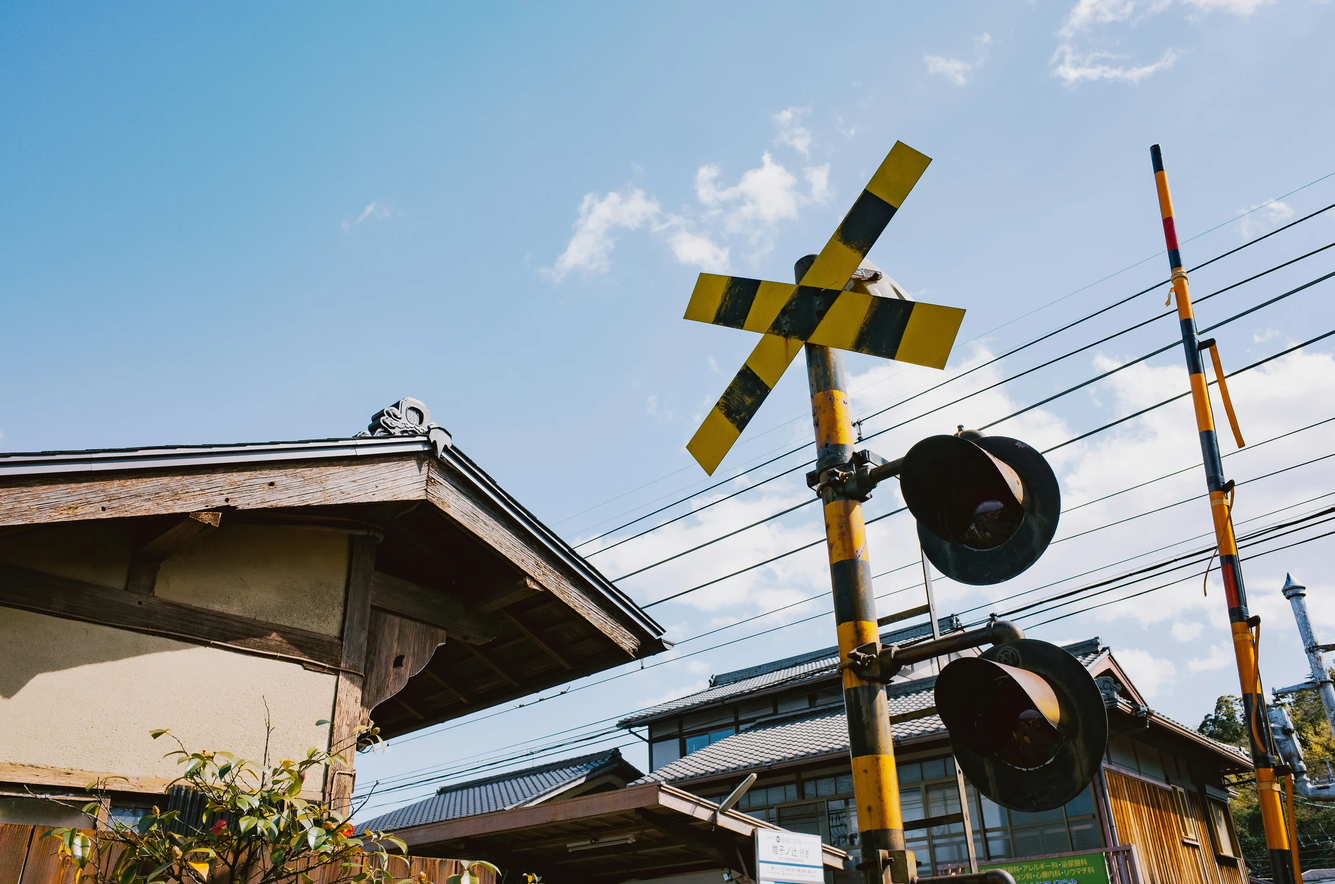
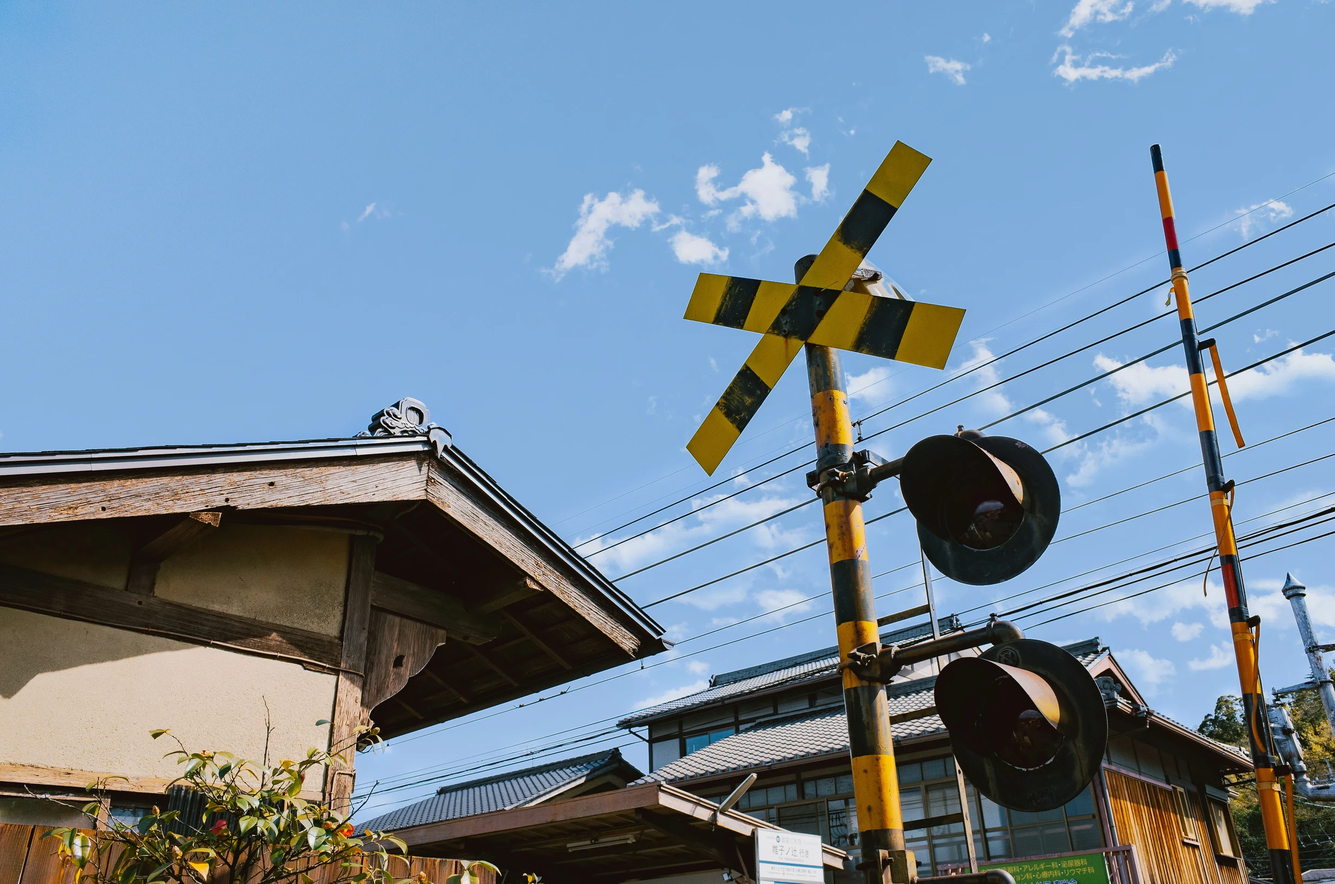
Lab: climb curve-mirror round 2
Claude-Session: https://claude.ai/code/session_01RqENhngNCzDFmJWDZueXGV

diff --git a/tools/depth/bakes/curve-mirror/bake.py b/tools/depth/bakes/curve-mirror/bake.py
@@ -14,7 +14,8 @@
       answers 429); sky: segment.py sky hashi-3840.jpg hashi-3840-sky.png
       --work 3840, at its full width)
       OUT:  public/lab/curve-mirror (env.webp, envd.png, scene.json; photo.webp
-            and aux.png depend only on the photo and are unchanged by the 360)
+            (the sky-graded plate) and aux.png depend only on the photo and
+            are unchanged by the 360)
 
 The mirror stands 2.9 m in front of the lens, high on its pole over the old house
 on the left. Everything it can reflect is gathered into one equirect panorama
@@ -36,6 +37,12 @@ photo's vertical vanishing point):
     also works: turned to the photo's sun, its sun disc taken out; the engine
     draws the sun analytically, at HDR.)
   - the seam is feathered over ~9 degrees inside the photo's coverage.
+  - first, the photo's sky is graded through its matte to a deep summer
+    cobalt by elevation (sky_grade.py: its milky right half and the haze
+    over the roofs taken to the clear sky's colour, clouds kept pale), and
+    the panorama's fitted sky is that same target carried to the zenith, so
+    the sky in the glass meets the sky round the mirror. photo.webp is the
+    graded plate; aux.png is measured on the plate as shot.
 
 Also: a distance panorama (for parallax across the 0.8 m face), SH9 irradiance
 of the panorama (for lighting the paint), and aux.png for the photo: log depth
@@ -50,6 +57,9 @@ import numpy as np
 
 sys.path.insert(0, os.path.join(os.path.dirname(os.path.abspath(__file__)), "..", ".."))
 import kit  # noqa: E402
+
+sys.path.insert(0, os.path.dirname(os.path.abspath(__file__)))
+import sky_grade  # noqa: E402
 
 WORK, OUT = sys.argv[1], sys.argv[2]
 # the world behind the lens: a Poly Haven HDRI (sun-matched) or an 8-bit 360 photo
@@ -96,6 +106,14 @@ Pw = Pc @ Rw.T
 rw = rc @ Rw.T
 rw /= np.linalg.norm(rw, axis=-1, keepdims=True)
 T.mark("load")
+
+# the photo's sky graded to a deep summer cobalt through its matte, by
+# elevation (sky_grade.py); everything downstream (the photo as shipped, its
+# pixels in the panorama, the cloud plane) takes the graded plate, and the
+# panorama's fitted sky is the same target carried to the zenith
+lin0 = lin
+lin = sky_grade.grade_photo(lin, sky, np.degrees(np.arcsin(np.clip(rw[..., 1], -1, 1))))
+T.mark("sky grade")
 
 # the mirror's face centre
 u0, v0 = MIRROR_PX
@@ -355,17 +373,10 @@ wb = (pr / hr) ** 0.15
 env_h *= wb
 print("hdri exposure %.3f wb %s" % (expo, wb.round(3)))
 # the HDRI's own sky (clear, pale November) becomes the photo's summer sky:
-# a fit of the photo's clear-sky colour by elevation and angle to the sun
-sk = (sky > 0.5) & ((lin.max(-1) - lin.min(-1)) / np.maximum(lin.max(-1), 1e-3) > 0.3)
-el_p = np.degrees(np.arcsin(np.clip(rw[sk][:, 1], -1, 1)))
-g_p = np.degrees(np.arccos(np.clip(rw[sk] @ sun, -1, 1)))
-def feats(el, g):
-    el = np.clip(el, 0, 62) / 60
-    return np.stack([np.ones_like(el), el, el * el], -1)
-A = feats(el_p, g_p)
-coef = np.linalg.lstsq(A, np.log(lin[sk] + 1e-4), rcond=None)[0]
+# the graded plate's clear-sky target by elevation, the same curve the photo's
+# sky was taken to, carried on up to the zenith
 g_e = np.degrees(np.arccos(np.clip(E @ sun, -1, 1)))
-skym = np.exp(feats(elev, g_e) @ coef)
+skym = sky_grade.target(elev)
 # circumsolar aureole: brighter and whiter toward the sun
 aur = np.exp(-g_e / 9)[..., None]
 skym = skym * (1 + 0.8 * aur) + 0.2 * aur
@@ -374,7 +385,7 @@ hsky = np.maximum(hsky, kit.smoothstep(14, 8, g_e).astype(np.float32))
 hs_l = kit.luma(env_h)
 var = np.clip(hs_l / np.maximum(cv2.GaussianBlur(hs_l, (0, 0), 40), 1e-4), 0.85, 1.15)
 for e_ in (10, 30, 50, 70, 85):
-    print("sky model at %d deg:" % e_, np.exp(feats(np.array([e_]), np.array([120])) @ coef).round(3))
+    print("sky target at %d deg:" % e_, sky_grade.target(e_).round(3))
 h_sun = np.array([np.cos(np.radians(h_el)) * np.sin((h_lon + rot) * 2 * np.pi), np.sin(np.radians(h_el)), -np.cos(np.radians(h_el)) * np.cos((h_lon + rot) * 2 * np.pi)])
 g_h = np.degrees(np.arccos(np.clip(E @ h_sun, -1, 1)))
 # the old sun's corona (bright, white) is sky too
@@ -504,7 +515,7 @@ nrm = cv2.imread(f"{WORK}/moge/normal.png", cv2.IMREAD_UNCHANGED)[..., ::-1].ast
 nw = nrm @ Rw.T
 nw /= np.linalg.norm(nw, axis=-1, keepdims=True) + 1e-6
 ndl = nw @ sun
-lum = kit.luma(lin)
+lum = kit.luma(lin0)  # the plate as shot: what is sunlit does not move with the grade
 # how much of a pixel's light is the sun's: facing it, and bright for its colour
 loc = cv2.dilate(lum, np.ones((61, 61), np.uint8))
 loc = kit.blur(loc, 20)
@@ -523,7 +534,7 @@ kit.save_rgb(f"{OUT}/env.webp", enc(env), quality=84)
 kit.save_gray(f"{OUT}/envd.png", code)
 q = np.clip(np.round(aux * 255), 0, 255).astype(np.uint8)
 cv2.imwrite(f"{OUT}/aux.png", q[..., ::-1])
-cv2.imwrite(f"{OUT}/photo.webp", cv2.imread(f"{WORK}/photo.png"), [cv2.IMWRITE_WEBP_QUALITY, 88])
+cv2.imwrite(f"{OUT}/photo.webp", np.clip(np.round(enc(lin) * 255), 0, 255).astype(np.uint8)[..., ::-1], [cv2.IMWRITE_WEBP_QUALITY, 88])
 scene = {
     "photo": [W, H],
     "f": fx,

diff --git a/tools/depth/bakes/curve-mirror/sky_grade.py b/tools/depth/bakes/curve-mirror/sky_grade.py
@@ -1,0 +1,86 @@
+"""The summer grade of the photo's sky, and of the panorama's fitted sky.
+
+The plate's sky is deep only at its upper left (about 205 deg, S 0.5); to the
+right and down to the roofs it goes milky (S 0.05-0.2, V 0.88), a hazy spring
+sky. The grade takes the clear sky to one target colour by elevation, a deep
+summer cobalt that deepens toward the zenith, and lays the photo's own
+departures from its clear sky (cloud, haze edges, grain, wires) back over it:
+
+    clear sky:  C' = C * T(el) / B          (B its local clear-sky colour)
+    cloud:      C' = C + (1 - KEEP) (T - B) (the cloud's own light kept)
+
+so the clouds keep their pale, bright tops (nothing clips) and only the blue
+between them deepens. It is applied through the sky matte, feathered, and
+nothing that is not sky moves. The panorama's fitted sky is the same target,
+T(el), carried up to the zenith, so the sky in the glass meets the sky round
+the mirror.
+"""
+import cv2
+import numpy as np
+
+import kit
+
+# the target clear sky, sRGB HSV by elevation (degrees): cyan-cobalt, paler
+# and lighter at the horizon, deepest overhead. These are the plate's values;
+# the summer film then turns the hue about 5 degrees toward cyan, lifts the
+# saturation (0.42 prints at about 0.53) and deepens it a little, so the print
+# lands at about 205 deg, S 0.45-0.58, V 0.80 falling to 0.72 overhead
+EL = np.array([-5.0, 0.0, 10.0, 20.0, 35.0, 50.0, 70.0, 90.0])
+HUE = np.array([212.0, 212.0, 211.5, 211.0, 210.0, 209.5, 209.0, 209.0])
+SAT = np.array([0.28, 0.30, 0.35, 0.39, 0.42, 0.44, 0.47, 0.49])
+VAL = np.array([0.91, 0.90, 0.89, 0.875, 0.855, 0.83, 0.80, 0.77])
+KEEP = 0.65  # how much of its own colour a cloud keeps (its brightest tops)
+NATURAL = 0.25  # how much of the plate's own clear-sky brightness variation survives
+
+
+def _dec(c):
+    return np.where(c <= 0.04045, c / 12.92, ((c + 0.055) / 1.055) ** 2.4)
+
+
+def target(el):
+    """Linear RGB of the graded clear sky at elevation el (degrees), any shape."""
+    el = np.asarray(el, np.float64)
+    h = np.interp(el, EL, HUE) / 60.0
+    s = np.interp(el, EL, SAT)
+    v = np.interp(el, EL, VAL)
+    # hsv -> rgb (sRGB), vectorised
+    i = np.floor(h).astype(np.int64) % 6
+    f = h - np.floor(h)
+    p, q, t = v * (1 - s), v * (1 - s * f), v * (1 - s * (1 - f))
+    r = np.choose(i, [v, q, p, p, t, v])
+    g = np.choose(i, [t, v, v, q, p, p])
+    b = np.choose(i, [p, p, t, v, v, q])
+    return _dec(np.stack([r, g, b], -1)).astype(np.float32)
+
+
+def clear_base(lin, sky):
+    """The plate's local clear-sky colour (linear) and luma: the darkest sky
+    in each neighbourhood, a little above it allowed, filled in and smoothed."""
+    L = kit.luma(lin)
+    Lm = cv2.erode(np.where(sky > 0.9, L, 9.0).astype(np.float32), np.ones((41, 41), np.uint8))
+    Lm = cv2.GaussianBlur(Lm, (0, 0), 20)
+    clear = (sky > 0.9) & (L < Lm * 1.12)
+    base = cv2.GaussianBlur(kit.pushpull(lin, clear.astype(np.float32)), (0, 0), 12)
+    return np.maximum(base, 1e-4).astype(np.float32)
+
+
+def grade_photo(lin, sky, el):
+    """Grade the photograph's sky (linear RGB in, linear RGB out). sky is the
+    segment.py matte, el each pixel's elevation in degrees."""
+    base = clear_base(lin, sky)
+    Lb = kit.luma(base)
+    # the plate's own brightness drift across its clear sky, a little of it kept
+    nat = (Lb / np.maximum(cv2.GaussianBlur(Lb, (0, 0), 120), 1e-4)) ** NATURAL
+    T = target(el) * nat[..., None]
+    # cloud: how far above its clear sky a pixel stands
+    L = kit.luma(lin)
+    c = kit.smoothstep(1.02, 1.30, L / np.maximum(Lb, 1e-4))[..., None]
+    g_clear = lin * (T / base)
+    g_cloud = lin + (1 - KEEP) * (T - base)
+    # a cloud's darker body (just over its clear sky) takes more of the grade
+    g = g_clear * (1 - c) + g_cloud * c
+    # feathered matte, and nothing below the horizon
+    w = cv2.GaussianBlur(np.clip(sky, 0, 1).astype(np.float32), (0, 0), 1.2)
+    w = (w * kit.smoothstep(-6, -1, el))[..., None]
+    out = lin * (1 - w) + np.clip(g, 0, None) * w
+    return out.astype(np.float32)
